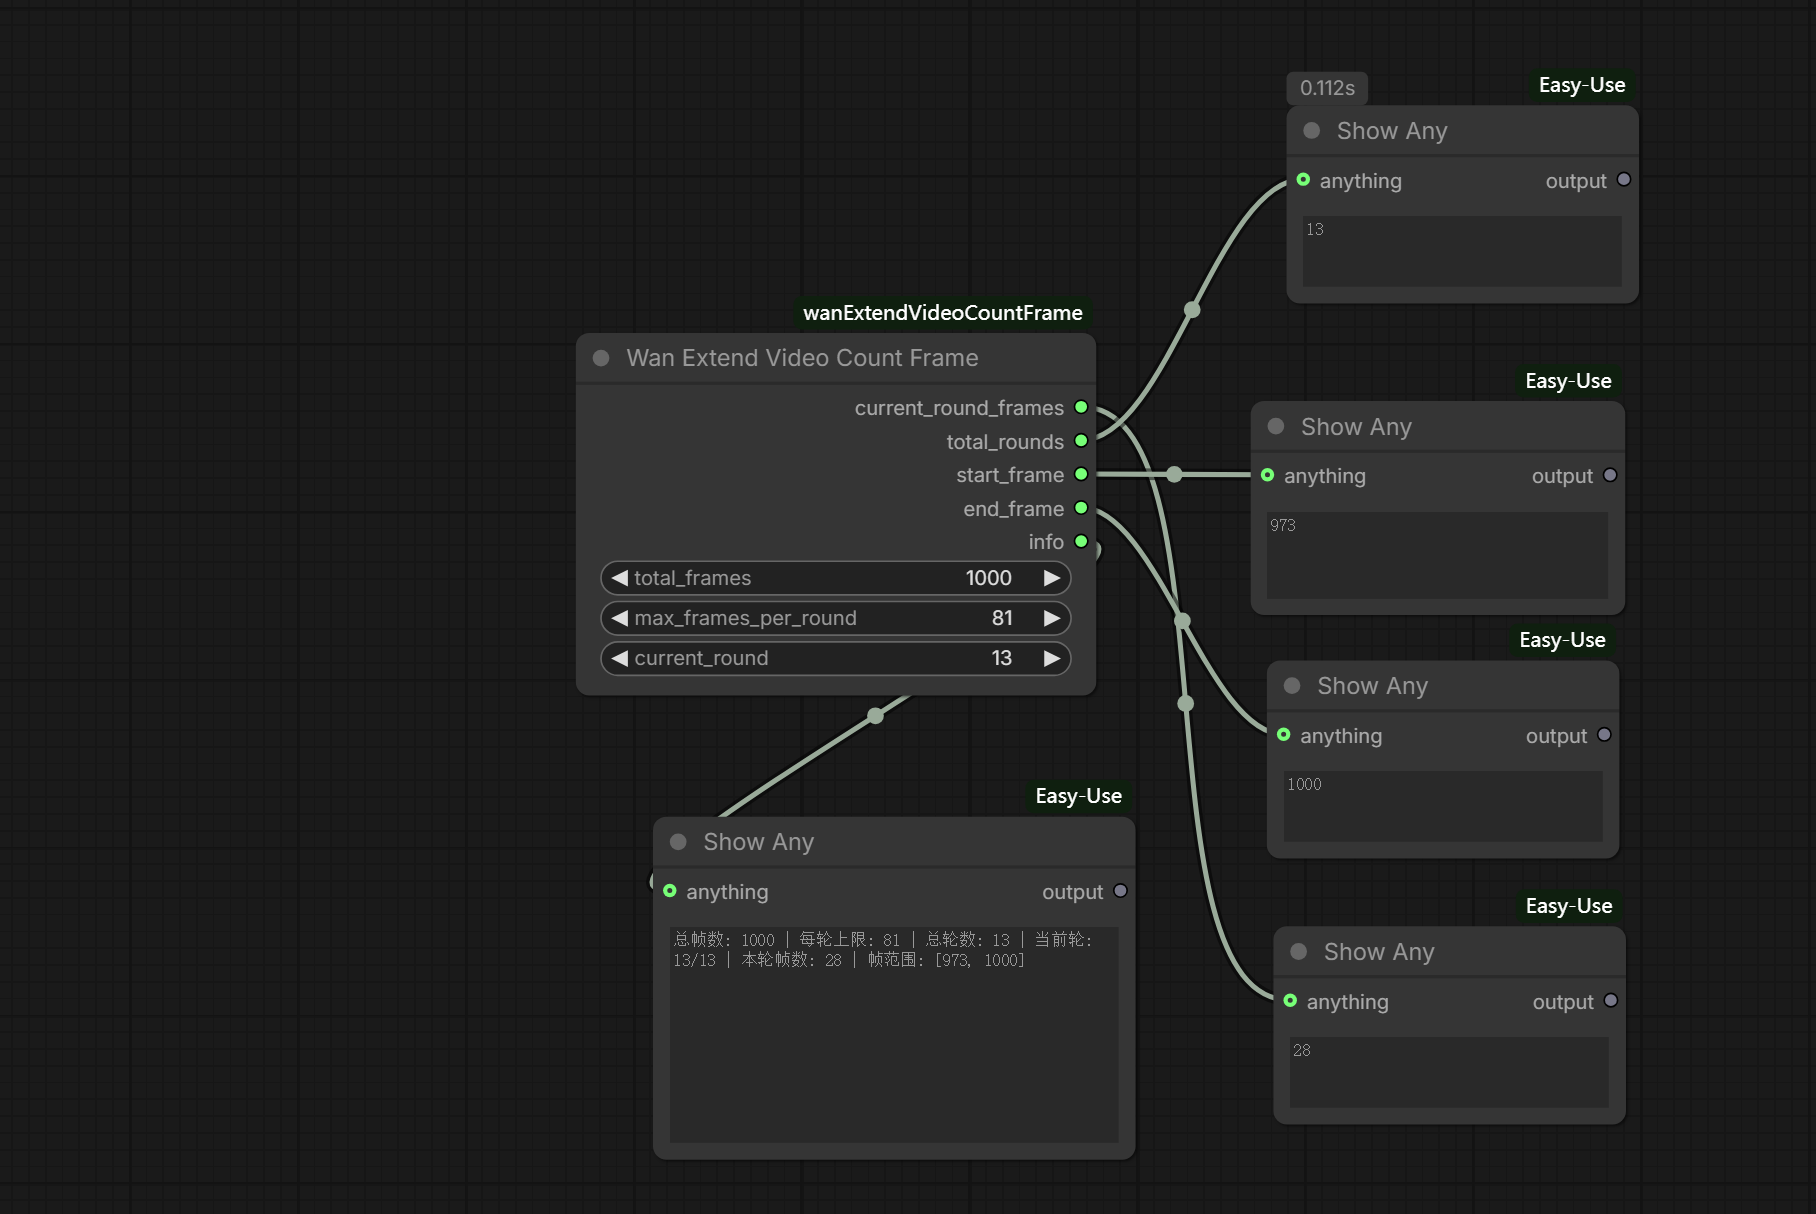
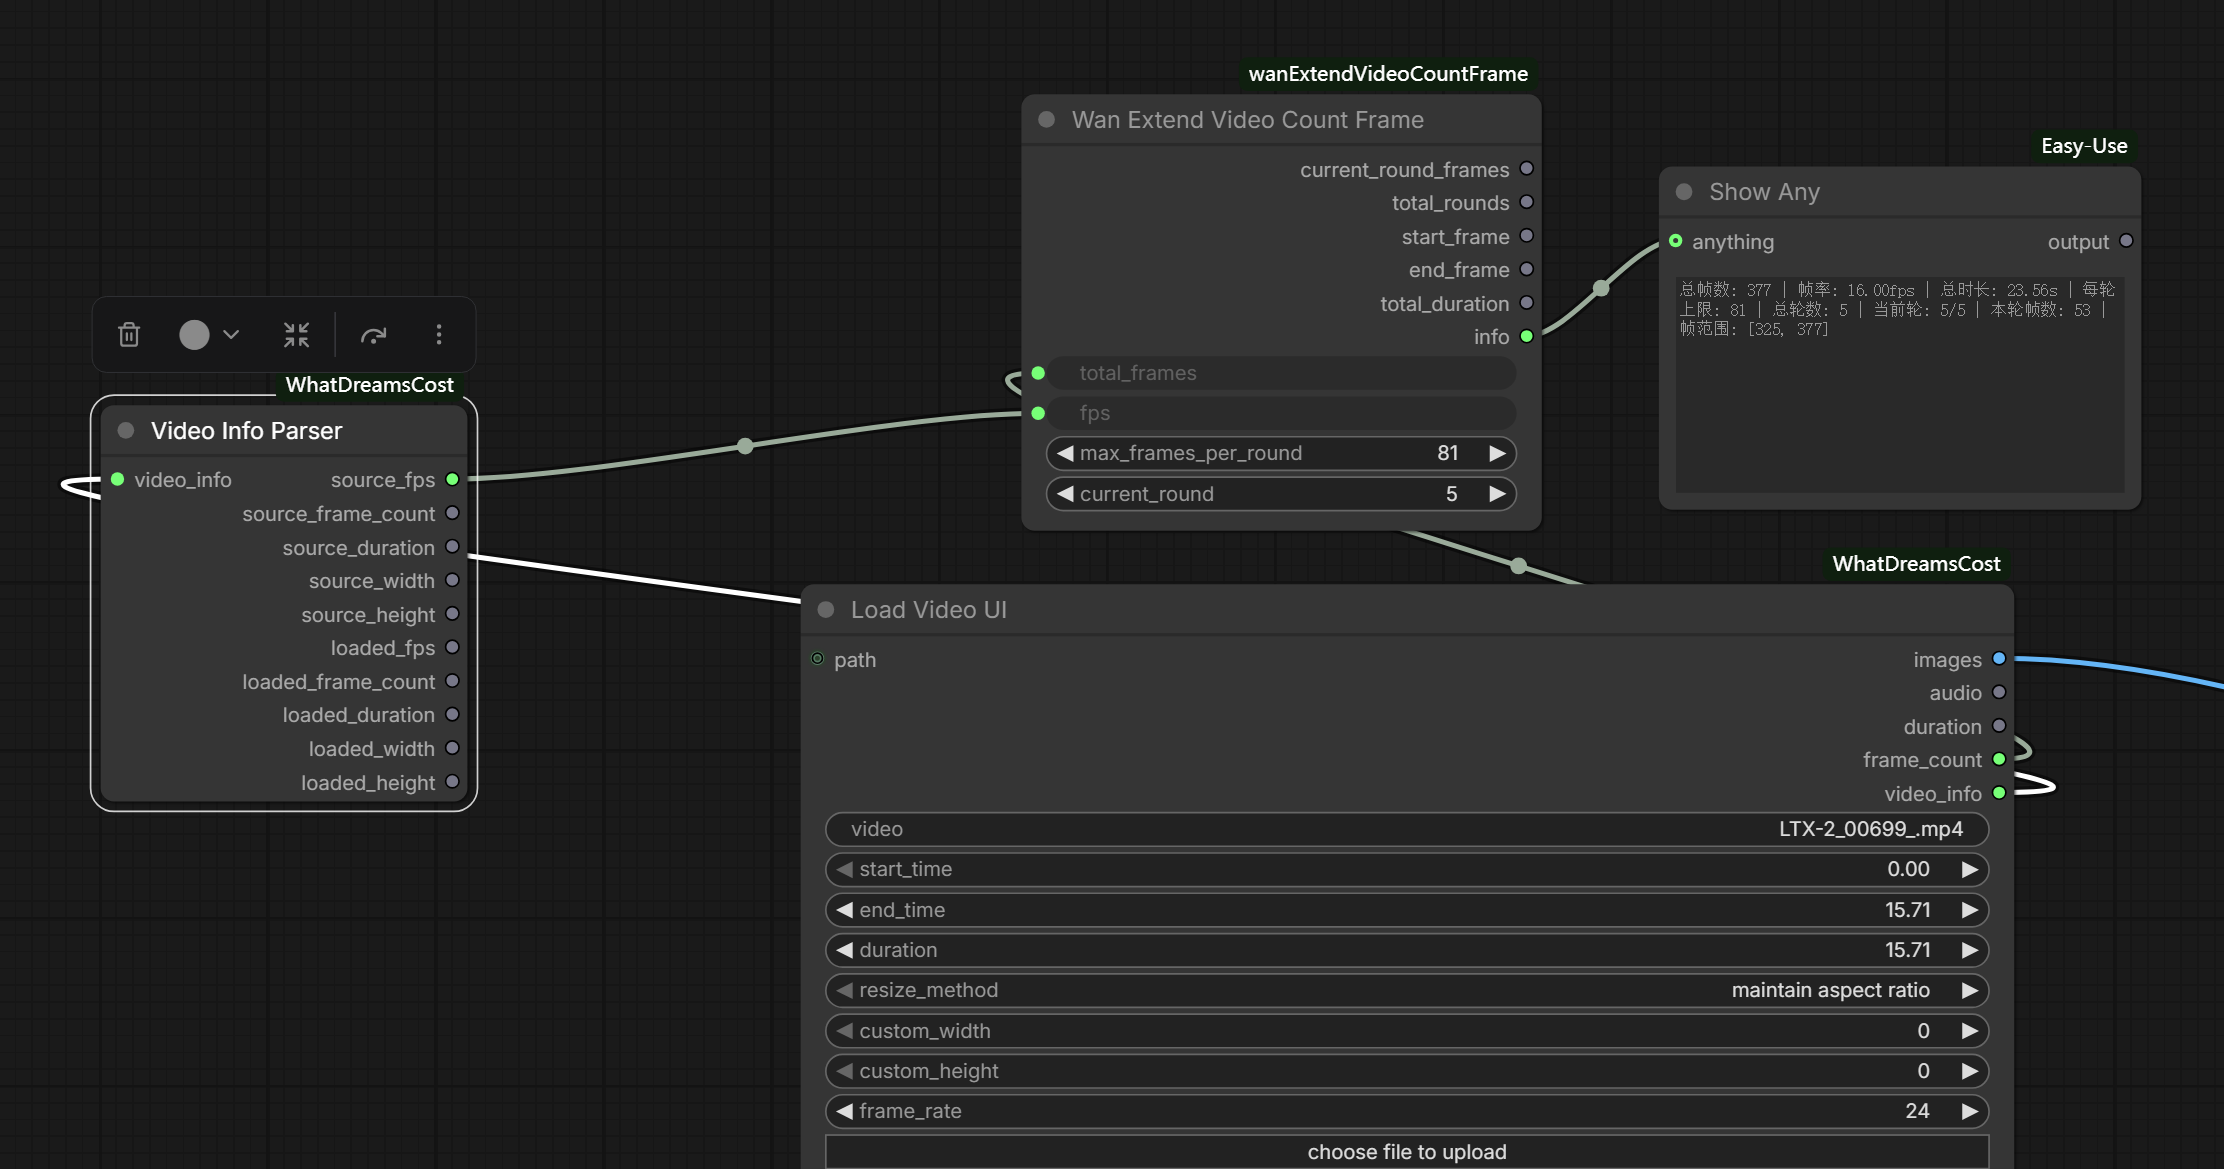
Add files via upload

diff --git a/wanExtendVideoCountFrame.py b/wanExtendVideoCountFrame.py
@@ -32,6 +32,17 @@ class wanExtendVideoCountFrame:
                         "tooltip": "视频总帧数",
                     },
                 ),
+                "fps": (
+                    "FLOAT",
+                    {
+                        "default": 16.0,
+                        "min": 0.01,
+                        "max": 240.0,
+                        "step": 1.0,
+                        "display": "number",
+                        "tooltip": "视频帧率",
+                    },
+                ),
                 "max_frames_per_round": (
                     "INT",
                     {
@@ -58,12 +69,13 @@ class wanExtendVideoCountFrame:
         }
 
     # 输出类型定义
-    RETURN_TYPES = ("INT", "INT", "INT", "INT", "STRING")
+    RETURN_TYPES = ("INT", "INT", "INT", "INT", "FLOAT", "STRING")
     RETURN_NAMES = (
         "current_round_frames",   # 当前轮应处理的帧数
         "total_rounds",           # 总共需要多少轮
         "start_frame",            # 当前轮起始帧（1-based）
         "end_frame",              # 当前轮结束帧（1-based，含）
+        "total_duration",         # 总时长（秒）
         "info",                   # 汇总信息字符串，方便调试
     )
 
@@ -71,11 +83,13 @@ class wanExtendVideoCountFrame:
     CATEGORY = "Video/Frame Utils"
     OUTPUT_NODE = False
 
-    def calculate(self, total_frames: int, max_frames_per_round: int, current_round: int):
+    def calculate(self, total_frames: int, fps: float, max_frames_per_round: int, current_round: int):
         max_fr = max(1, max_frames_per_round)  # 防止除以零
+        fps_clamped = max(0.01, fps)          # 防止除以零
 
-        # 1. 计算总轮数
+        # 1. 计算总轮数与总时长
         total_rounds = math.ceil(total_frames / max_fr)
+        total_duration = total_frames / fps_clamped
 
         # 2. 校正 current_round 范围（防止用户输入超出范围）
         current_round_clamped = max(1, min(current_round, total_rounds))
@@ -95,6 +109,8 @@ class wanExtendVideoCountFrame:
         # 5. 构建信息字符串
         info = (
             f"总帧数: {total_frames} | "
+            f"帧率: {fps_clamped:.2f}fps | "
+            f"总时长: {total_duration:.2f}s | "
             f"每轮上限: {max_fr} | "
             f"总轮数: {total_rounds} | "
             f"当前轮: {current_round_clamped}/{total_rounds} | "
@@ -113,6 +129,7 @@ class wanExtendVideoCountFrame:
             total_rounds,
             start_frame,
             end_frame,
+            total_duration,
             info,
         )
 

diff --git a/README.md b/README.md
@@ -4,8 +4,7 @@ A ComfyUI utility node for **WAN video model** workflows — designed to work wi
 
 When generating long videos with WAN, each workflow run has a maximum frame limit (default **81 frames**). This node automatically calculates how many rounds are needed for your total frame count, and tells you exactly how many frames to use in each round — including the final partial round.
 
- <img width="1816" height="1214" alt="image" src="https://github.com/user-attachments/assets/3c73765a-57e0-4f66-baaf-d10707aa4347" />
-
+![preview](preview.png)
 
 ---
 
@@ -36,6 +35,7 @@ The node will appear under the category: `Video / Frame Utils`
 | Parameter | Type | Default | Description |
 |---|---|---|---|
 | `total_frames` | INT | 163 | The total number of frames you want your final video to be |
+| `fps` | INT | 16 | The frame rate of the video (defaults to 16) |
 | `max_frames_per_round` | INT | 81 | Maximum frames WAN can generate per run (81 for most WAN models) |
 | `current_round` | INT | 1 | Which round you are currently running (starts at 1) |
 
@@ -49,6 +49,7 @@ The node will appear under the category: `Video / Frame Utils`
 | `total_rounds` | INT | Total number of runs needed to complete your video |
 | `start_frame` | INT | The first frame number this round covers (1-based) |
 | `end_frame` | INT | The last frame number this round covers (1-based) |
+| `total_duration` | FLOAT | The total duration of the video in seconds |
 | `info` | STRING | Summary string for debugging — connect to a Show Any node |
 
 ---
@@ -147,6 +148,7 @@ ComfyUI/custom_nodes/wanExtendVideoCountFrame.py
 | 参数 | 类型 | 默认值 | 说明 |
 |---|---|---|---|
 | `total_frames` | INT | 163 | 目标视频总帧数 |
+| `fps` | INT | 16 | 视频帧率（默认 16） |
 | `max_frames_per_round` | INT | 81 | 每轮工作流最大帧数（大多数 WAN 模型为 81） |
 | `current_round` | INT | 1 | 当前是第几轮（从 1 开始） |
 
@@ -160,6 +162,7 @@ ComfyUI/custom_nodes/wanExtendVideoCountFrame.py
 | `total_rounds` | INT | 完成整个视频需要跑的总轮数 |
 | `start_frame` | INT | 本轮起始帧编号（从 1 开始计数） |
 | `end_frame` | INT | 本轮结束帧编号（从 1 开始计数，含） |
+| `total_duration` | FLOAT | 视频总时长（单位：秒） |
 | `info` | STRING | 调试信息汇总字符串 — 连接到 Show Any 节点查看 |
 
 ---